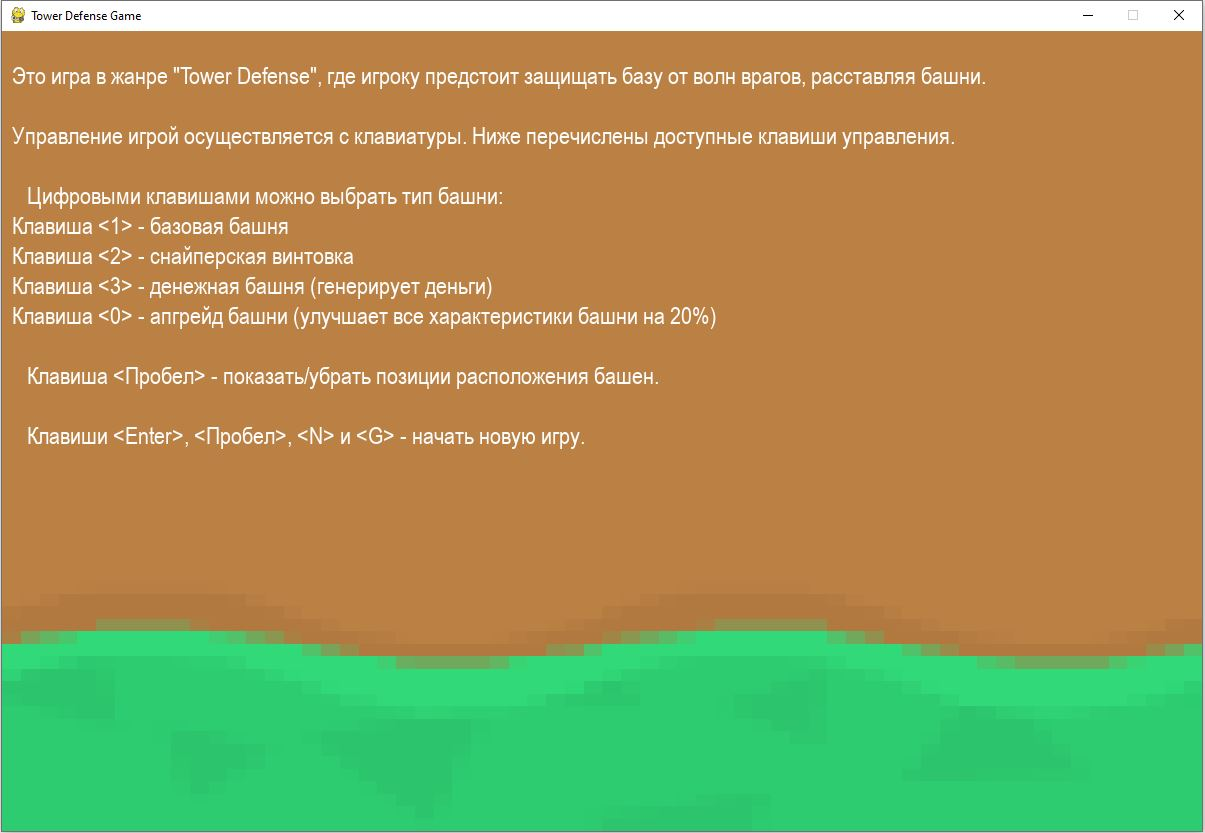
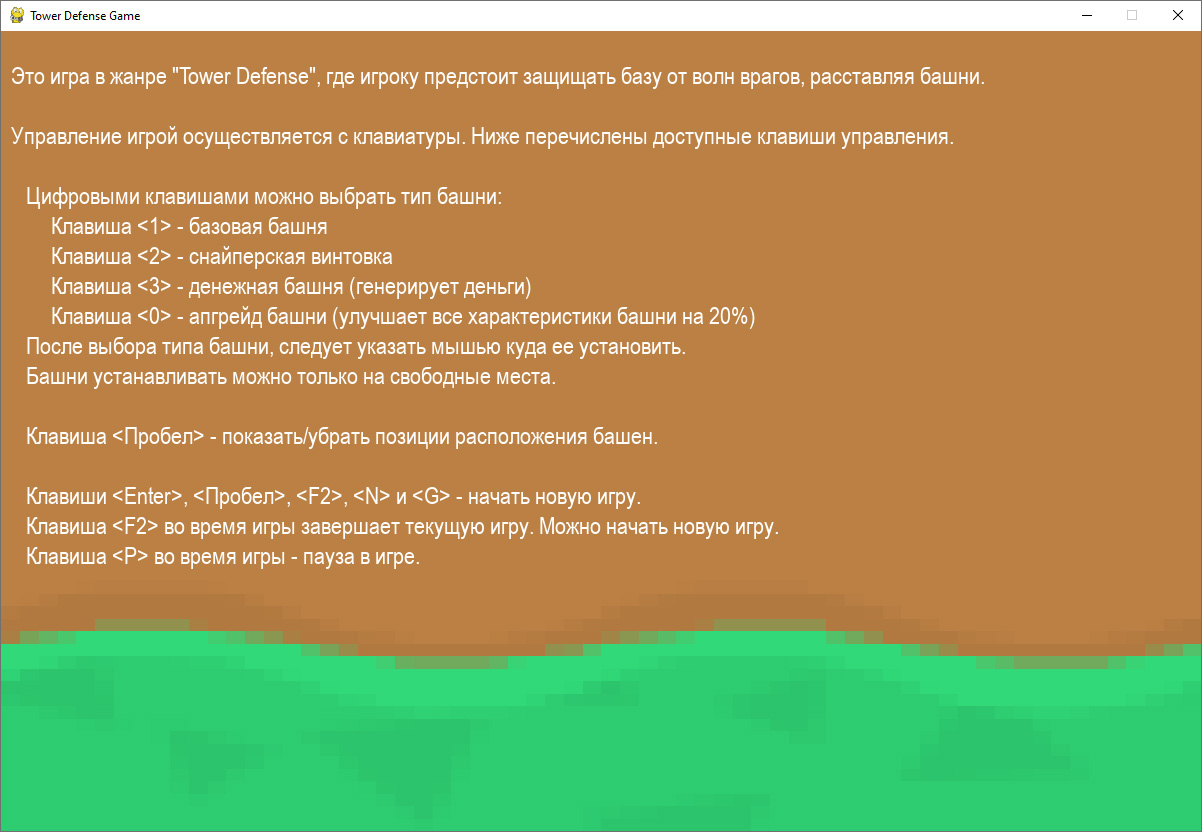
Больше волн врагов

diff --git a/level.py b/level.py
@@ -2,6 +2,7 @@
 # а также расстановку башен и обработку коллизий.
 
 import pygame
+from random import random, randint
 from enemy import Enemy
 from settings import tower_classes, image_enemy_paths
 
@@ -9,19 +10,22 @@ from settings import tower_classes, image_enemy_paths
 class Level:
     """ Управляет уровнем игры, волнами врагов и расстановкой башен. """
 
-    def __init__(self, game):
+    def __init__(self, game, waves_count=30):
         """ Инициализирует уровень игры. """
         self.game = game
         self.enemies = pygame.sprite.Group()
         self.towers = pygame.sprite.Group()
         self.bullets = pygame.sprite.Group()
         self.waves = [
-            [{'path': self.game.settings.enemy_path, 'speed': 1, 'health': 100, 'reward': 10, 'image_path': image_enemy_paths[0]}] * 5,
-            [{'path': self.game.settings.enemy_path, 'speed': 1.5, 'health': 150, 'reward': 20, 'image_path': image_enemy_paths[1]}] * 7,
-            [{'path': self.game.settings.enemy_path, 'speed': 0.75, 'health': 200, 'reward': 30, 'image_path': image_enemy_paths[2]}] * 4,
-            [{'path': self.game.settings.enemy_path, 'speed': 0.5, 'health': 250, 'reward': 40, 'image_path': image_enemy_paths[3]}] * 7,
-            [{'path': self.game.settings.enemy_path, 'speed': 1.2, 'health': 300, 'reward': 50, 'image_path': image_enemy_paths[4]}] * 6,
+            [{'path': self.game.settings.enemy_path, 'speed': 1, 'health': 100, 'reward': 10, 'image_path': image_enemy_paths[0][0]}] * 5,
+            [{'path': self.game.settings.enemy_path, 'speed': 1.5, 'health': 150, 'reward': 20, 'image_path': image_enemy_paths[1][0]}] * 7,
+            [{'path': self.game.settings.enemy_path, 'speed': 0.75, 'health': 200, 'reward': 30, 'image_path': image_enemy_paths[2][0]}] * 4,
+            [{'path': self.game.settings.enemy_path, 'speed': 0.5, 'health': 250, 'reward': 40, 'image_path': image_enemy_paths[3][0]}] * 7,
+            [{'path': self.game.settings.enemy_path, 'speed': 1.2, 'health': 300, 'reward': 50, 'image_path': image_enemy_paths[4][0]}] * 6,
         ]
+        # Добавить еще waves_count - len(self.waves) волн
+        for i in range(len(self.waves), waves_count):
+            self.waves.append(self.random_level(i))
         self.current_wave = 0
         self.spawned_enemies = 0
         self.spawn_delay = 1000
@@ -30,9 +34,44 @@ class Level:
         self.start_next_wave()
         self.font = pygame.font.SysFont("Arial", 24)
 
+    def random_level(self, level=1) -> list:
+        """
+        Сгенерировать случайную волну с учетом уровня сложности игры
+        :param level: Уровень сложности игры
+        :return: Список врагов со случайными параметрами
+        """
+        def random_deviation(number: float, deviation=0.2) -> float:
+            """
+            Вычисляет случайное число с отклонением
+            :param number: Исходное число
+            :param deviation: Максимально допустимое отклонение в большую или меньшую сторону (в долях)
+            :return: Число со случайным отклонением
+            """
+            return number + (random()-0.5) * deviation * number * 2
+
+        wave = []
+        for i in range(int(random_deviation(level * 2.5))):
+            # Берем случайного врага
+            enemy = randint(0, len(image_enemy_paths)-1)
+
+            # Вносим изменения в характеристики врагов случайным образом
+            property_enemy_dict = image_enemy_paths[enemy][1]
+            for k, v in property_enemy_dict.items():
+                property_enemy_dict[k] = random_deviation(v) + v * level * 0.0015
+
+            # Добавляем врага к волне
+            wave.append({
+                'path': self.game.settings.enemy_path,
+                'image_path': image_enemy_paths[enemy][0],
+                **property_enemy_dict
+            })
+
+        return wave
+
     def start_next_wave(self):
         """ Запускает следующую волну врагов. """
-        if self.current_wave < len(self.waves):
+        if (self.current_wave < len(self.waves)
+                and self.spawned_enemies >= len(self.waves[self.current_wave])):
             self.spawned_enemies = 0
             self.spawn_next_enemy()
 
@@ -84,10 +123,15 @@ class Level:
             tower.update(self.enemies, current_time, self.bullets)
         self.bullets.update()
 
-        if len(self.enemies) == 0 and self.current_wave < len(self.waves) - 1:
+        if len(self.enemies) == 0:
+            print('До цикла', self.spawned_enemies, len(self.waves[self.current_wave]))
+
+        if (len(self.enemies) == 0 and self.current_wave < len(self.waves) - 1
+            and self.spawned_enemies >= len(self.waves[self.current_wave])):
             self.current_wave += 1
             self.start_next_wave()
-        elif len(self.enemies) == 0 and self.current_wave == len(self.waves) - 1:
+        elif (len(self.enemies) == 0 and self.current_wave == len(self.waves) - 1
+              and self.spawned_enemies >= len(self.waves[self.current_wave])):
             self.all_waves_complete = True
 
     def draw_path(self, screen):

diff --git a/main.py b/main.py
@@ -4,7 +4,6 @@
 import sys
 
 import pygame
-from tkinter import messagebox
 
 from grid import Grid
 from level import Level
@@ -67,12 +66,22 @@ class TowerDefenseGame:
                 sys.exit()
             elif self.show_help:
                 if (event.type == pygame.KEYDOWN and
-                        event.key in [pygame.K_KP_ENTER, pygame.K_n, pygame.K_g, pygame.K_SPACE]):        # нажата клавиша "Enter"
-                    # Начать игру
+                        event.key in [pygame.K_KP_ENTER, pygame.K_n, pygame.K_g, pygame.K_SPACE, pygame.K_F2, pygame.K_p]):
+                    # Начать игру, если нажата кнопка начала игры
                     print('start')
                     self.show_help = False
             elif event.type == pygame.KEYDOWN:
-                if event.key == pygame.K_SPACE:             # нажата клавиша "пробел"
+                # Если игра закончена - начать новую игру по нажатию кнопки
+                if ((self.is_game_over or self.level.all_waves_complete)
+                        and event.key in [pygame.K_KP_ENTER, pygame.K_n, pygame.K_g, pygame.K_SPACE, pygame.K_F2, pygame.K_p]):
+                    self.show_help = True
+                elif event.key == pygame.K_p:               # нажата клавиша "P"
+                    # Пауза в игре
+                    self.show_help = True
+                elif event.key == pygame.K_F2:              # нажата клавиша "F2"
+                    # Начать новую игру
+                    self.is_game_over = True
+                elif event.key == pygame.K_SPACE:           # нажата клавиша "пробел"
                     self.show_grid = (self.show_grid + 1) % 5
                     self.last_event_text = "Show/Hide grid"
                     print(self.last_event_text)
@@ -93,7 +102,7 @@ class TowerDefenseGame:
                     self.selected_tower_type = 'upgrade'
                     self.last_event_text = "Selected upgrade tower."
                     print(self.last_event_text)
-            elif event.type == pygame.MOUSEBUTTONDOWN and event.button == 1:
+            elif event.type == pygame.MOUSEBUTTONDOWN and event.button == 1 and not self.is_game_over:
                 # Не выбран никакой тип башни
                 if not self.selected_tower_type:
                     self.last_event_text = "No tower type selected."
@@ -159,7 +168,7 @@ class TowerDefenseGame:
             if self.show_grid in [2, 4]:
                 self.grid.draw()
 
-            money_text = self.font.render(f"Money: ${self.settings.starting_money}", True, (255, 255, 255))
+            money_text = self.font.render(f"Money: ${int(self.settings.starting_money)}", True, (255, 255, 255))
             tower_text = self.font.render(
                 f"Selected Tower: {self.selected_tower_type if self.selected_tower_type else 'None'}", True,
                 (255, 255, 255))
@@ -190,8 +199,12 @@ class TowerDefenseGame:
                     self.level.start_next_wave()
             self._draw()
             self.clock.tick(60)
+            if self.is_game_over and self.show_help:
+                return
+
 
 
 if __name__ == '__main__':
-    td_game = TowerDefenseGame()
-    td_game.run_game()
+    while True:
+        td_game = TowerDefenseGame()
+        td_game.run_game()

diff --git a/enemy.py b/enemy.py
@@ -32,7 +32,7 @@ class Enemy(pygame.sprite.Sprite):
         if self.health <= 0:
             # Получить награду за уничтожение врага
             self.game.settings.starting_money += self.reward
-            self.game.last_event_text = f'The enemy has been destroyed + ${self.reward}'
+            self.game.last_event_text = f'The enemy has been destroyed + ${int(self.reward)}'
             print(self.game.last_event_text)
             self.kill()
 

diff --git a/README.md b/README.md
@@ -27,13 +27,19 @@
 Стоимость дальнейшего апгрейда увеличивается на $50.
 - Добавлена проверка занятости позиции при установке башни. Если позиция занята, то выводим соответствующее сообщение. 2 башни на одну позицию установить нельзя.  
 - Добавлено увеличение количество денег игрока при уничтожении врагов.  
-- **(NEW)** Изменены изображения врагов.  
-- **(NEW)** Добавлены изображения выстрелов для разных башен.  
-- **(NEW)** В момент генерации монет денежная башня меняет свое изображение.  
-- **(NEW)** После апгрейда башня меняет свое изображение.  
-- **(NEW)** Добавлен экран приветствия с инструкцией к игре.  
-- **(NEW)** Добавлено секретное оружие.  
-- **(NEW)** Добавлены новые виды врагов.  
+- Изменены изображения врагов.  
+- Добавлены изображения выстрелов для разных башен.  
+- В момент генерации монет денежная башня меняет свое изображение.  
+- После апгрейда башня меняет свое изображение.  
+- Добавлен экран приветствия с инструкцией к игре.  
+- Добавлено секретное оружие.  
+- Добавлены новые виды врагов.  
+- **(NEW)** Добавлена возможность начать новую игру.  
+- **(NEW)** Добавлена возможность поставить паузу в игре.  
+- **(NEW)** Добавлено больше волн врагов. Волны генерируются случайным образом с элементом случайности типа врага 
+и его характеристик. Чем выше уровень, тем выше характеристики врагов (скорость, сила, ценность).   
+- **(NEW)** Исправлена ошибка с определением конца волны в случае, когда врагов на экране не осталось, 
+но есть еще не сгенерированные враги.
 
 
 ### Окно приветствия с правилами игры:
